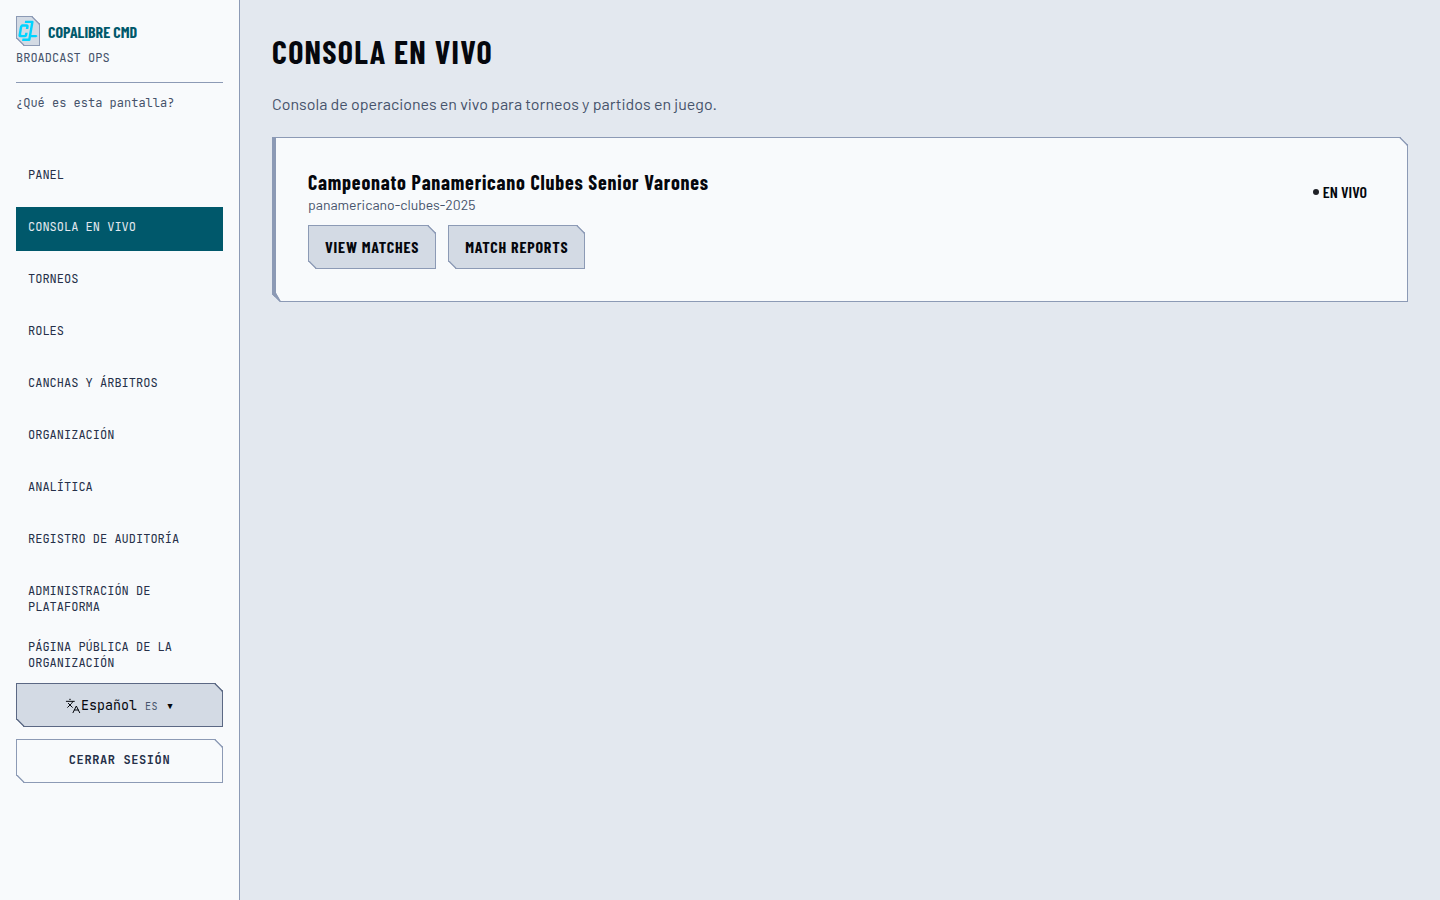
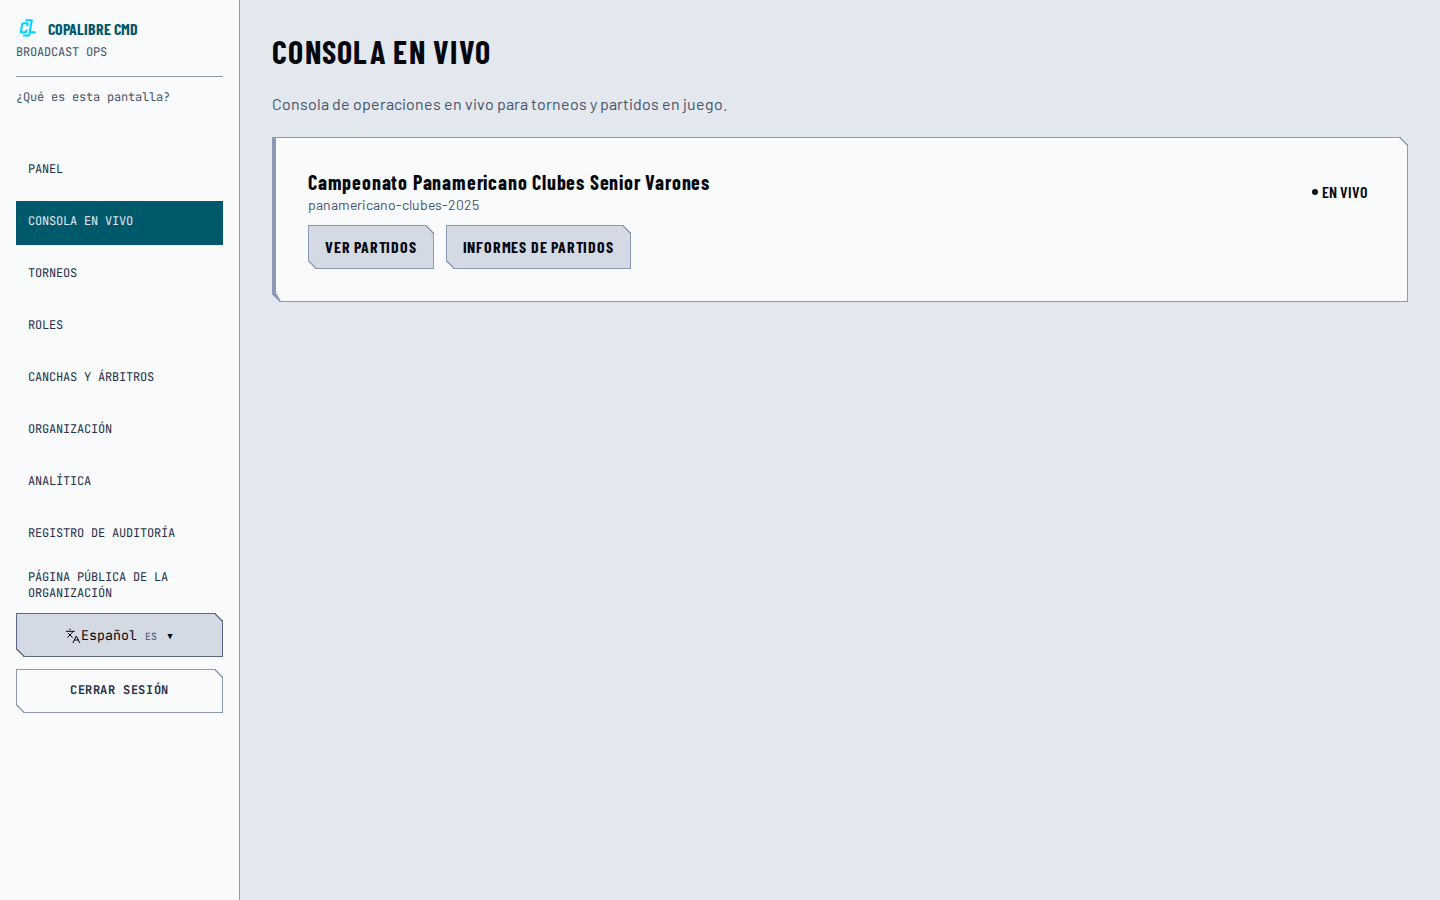
fix(web): localize live-console links

diff --git a/apps/web/src/control/components/screens/LiveConsoleTemplate.tsx b/apps/web/src/control/components/screens/LiveConsoleTemplate.tsx
@@ -1,4 +1,4 @@
-import { defineMessages, useIntl } from 'react-intl';
+import { useIntl } from 'react-intl';
 import { messages } from '../../i18n/messages.en.js';
 import { type TournamentResponse } from '../../lib/api-client.js';
 import { controlLinkClick } from '../../lib/control-navigation.js';
@@ -10,19 +10,6 @@ import { Skeleton } from '../ui/atoms/skeleton.js';
 import { ListScreenLayout } from '../ui/layouts/list-screen-layout.js';
 import { ReadState } from '../ui/layouts/read-state.js';
 import { EmptyState } from '../ui/molecules/empty-state.js';
-
-// These two link
-// labels were hardcoded Spanish literals with no message id at all. Local
-// rather than in `messages.en.ts` — the same `auth.*`/`invitation.*`
-// namespace gap already restated in English
-// elsewhere (`AcceptInvitationForm` among them): no locale catalogue has these ids, so every
-// locale falls back to `defaultMessage`, and `check-atomic-composition.mjs`'s
-// catalogue-completeness rule only walks the shared `messages.en.ts` file,
-// not a component's own local descriptors.
-const localMessages = defineMessages({
-  viewMatches: { id: 'control.liveConsole.viewMatches', defaultMessage: 'View matches' },
-  matchReports: { id: 'control.liveConsole.matchReports', defaultMessage: 'Match reports' },
-});
 
 /**
  * Composes the screen from the data `LiveConsolePage` supplies: purely presentational, no API client reference and no
@@ -105,7 +92,7 @@ export function LiveConsoleTemplate({
                       `/control/${organizationAlias}/tournaments/${tournament.alias}/matches-view`,
                     )}
                   >
-                    {intl.formatMessage(localMessages.viewMatches)}
+                    {intl.formatMessage(messages.liveConsoleViewMatches)}
                   </a>
                   <a
                     className="cl-btn cl-btn--secondary cl-focusable"
@@ -114,7 +101,7 @@ export function LiveConsoleTemplate({
                       `/control/${organizationAlias}/tournaments/${tournament.alias}/reports`,
                     )}
                   >
-                    {intl.formatMessage(localMessages.matchReports)}
+                    {intl.formatMessage(messages.liveConsoleMatchReports)}
                   </a>
                 </Inline>
               </Stack>

diff --git a/apps/web/src/control/i18n/i18n.test.tsx b/apps/web/src/control/i18n/i18n.test.tsx
@@ -2,7 +2,9 @@ import { render, screen } from '@testing-library/react';
 import { IntlProvider } from 'react-intl';
 import { StandingsTemplate } from '../components/screens/StandingsTemplate.js';
 import { SeedingBuilderTemplate } from '../components/screens/SeedingBuilderTemplate.js';
+import { LiveConsoleTemplate } from '../components/screens/LiveConsoleTemplate.js';
 import { RolesPermissionsTemplate } from '../components/screens/RolesPermissionsTemplate.js';
+import { tournament } from '../components/screen-story-fixtures.js';
 import { ToastProvider } from '../components/ToastProvider.js';
 import { activeControlLanguage } from './ControlIntl.js';
 import { messages } from './messages.en.js';
@@ -184,6 +186,40 @@ describe('Non-English catalogs render real translated text, not an English fallb
       expect(screen.getByText(title)).toBeTruthy();
       expect(screen.getByText(emptyState)).toBeTruthy();
       expect(screen.queryByText('Standings')).toBeNull();
+    },
+  );
+});
+
+describe('LiveConsoleTemplate renders localized tournament links', () => {
+  const expectedLinks: Record<string, readonly [string, string]> = {
+    es: ['Ver partidos', 'Informes de partidos'],
+    fr: ['Voir les matchs', 'Rapports de match'],
+    pt: ['Ver partidas', 'Relatórios de partidas'],
+    it: ['Vedi le partite', 'Report delle partite'],
+    de: ['Spiele ansehen', 'Spielberichte'],
+    ru: ['Посмотреть матчи', 'Отчёты о матчах'],
+    zh: ['查看比赛', '比赛报告'],
+  };
+
+  it.each(Object.entries(expectedLinks))(
+    '%s renders both links from its locale catalogue',
+    (lang, [viewMatches, matchReports]) => {
+      render(
+        withLanguage(
+          lang,
+          <LiveConsoleTemplate
+            failed={false}
+            loading={false}
+            onRetry={() => undefined}
+            organizationAlias="liga-mendocina"
+            staleSince={undefined}
+            tournaments={[tournament]}
+          />,
+        ),
+      );
+
+      expect(screen.getByRole('link', { name: viewMatches })).toBeTruthy();
+      expect(screen.getByRole('link', { name: matchReports })).toBeTruthy();
     },
   );
 });

diff --git a/apps/web/src/control/i18n/messages.ru.ts b/apps/web/src/control/i18n/messages.ru.ts
@@ -1334,6 +1334,8 @@ export const messages: Record<string, string> = {
   'control.liveConsole.loading': 'Загрузка текущих операций…',
   'control.liveConsole.noActiveTournaments': 'В этой организации нет активных турниров.',
   'control.liveConsole.createTournament': 'Создать турнир',
+  'control.liveConsole.viewMatches': 'Посмотреть матчи',
+  'control.liveConsole.matchReports': 'Отчёты о матчах',
   'control.preferences.tokensLoading': 'Загрузка…',
   'preferences.title': 'Личные настройки',
   'control.preferences.theme': 'Тема',

diff --git a/apps/web/src/control/i18n/messages.fr.ts b/apps/web/src/control/i18n/messages.fr.ts
@@ -1344,6 +1344,8 @@ export const messages: Record<string, string> = {
   'control.liveConsole.loading': 'Chargement des opérations en direct…',
   'control.liveConsole.noActiveTournaments': 'Aucun tournoi actif dans cette organisation.',
   'control.liveConsole.createTournament': 'Créer un tournoi',
+  'control.liveConsole.viewMatches': 'Voir les matchs',
+  'control.liveConsole.matchReports': 'Rapports de match',
   'control.preferences.tokensLoading': 'Chargement…',
   'preferences.title': 'Préférences personnelles',
   'control.preferences.theme': 'Thème',

diff --git a/apps/web/src/control/i18n/messages.de.ts b/apps/web/src/control/i18n/messages.de.ts
@@ -1353,6 +1353,8 @@ export const messages: Record<string, string> = {
   'control.liveConsole.loading': 'Live-Betrieb wird geladen…',
   'control.liveConsole.noActiveTournaments': 'Keine aktiven Turniere in dieser Organisation.',
   'control.liveConsole.createTournament': 'Turnier erstellen',
+  'control.liveConsole.viewMatches': 'Spiele ansehen',
+  'control.liveConsole.matchReports': 'Spielberichte',
   'control.preferences.tokensLoading': 'Wird geladen…',
   'preferences.title': 'Persönliche Einstellungen',
   'control.preferences.theme': 'Darstellung',

diff --git a/apps/web/src/control/i18n/messages.it.ts b/apps/web/src/control/i18n/messages.it.ts
@@ -1340,6 +1340,8 @@ export const messages: Record<string, string> = {
   'control.liveConsole.loading': 'Caricamento delle operazioni live…',
   'control.liveConsole.noActiveTournaments': 'Nessun torneo attivo in questa organizzazione.',
   'control.liveConsole.createTournament': 'Crea torneo',
+  'control.liveConsole.viewMatches': 'Vedi le partite',
+  'control.liveConsole.matchReports': 'Report delle partite',
   'control.preferences.tokensLoading': 'Caricamento…',
   'preferences.title': 'Preferenze personali',
   'control.preferences.theme': 'Tema',

diff --git a/apps/web/src/control/i18n/messages.pt.ts b/apps/web/src/control/i18n/messages.pt.ts
@@ -1331,6 +1331,8 @@ export const messages: Record<string, string> = {
   'control.liveConsole.loading': 'Carregando operações ao vivo…',
   'control.liveConsole.noActiveTournaments': 'Nenhum torneio ativo nesta organização.',
   'control.liveConsole.createTournament': 'Criar torneio',
+  'control.liveConsole.viewMatches': 'Ver partidas',
+  'control.liveConsole.matchReports': 'Relatórios de partidas',
   'control.preferences.tokensLoading': 'Carregando…',
   'preferences.title': 'Preferências pessoais',
   'control.preferences.theme': 'Tema',

diff --git a/apps/web/src/control/i18n/messages.es.ts b/apps/web/src/control/i18n/messages.es.ts
@@ -1337,6 +1337,8 @@ export const messages: Record<string, string> = {
   'control.liveConsole.loading': 'Cargando operaciones en vivo…',
   'control.liveConsole.noActiveTournaments': 'No hay torneos activos en esta organización.',
   'control.liveConsole.createTournament': 'Crear torneo',
+  'control.liveConsole.viewMatches': 'Ver partidos',
+  'control.liveConsole.matchReports': 'Informes de partidos',
   'control.preferences.tokensLoading': 'Cargando…',
   'preferences.title': 'Preferencias personales',
   'control.preferences.theme': 'Tema',

diff --git a/apps/web/src/control/i18n/messages.zh.ts b/apps/web/src/control/i18n/messages.zh.ts
@@ -1270,6 +1270,8 @@ export const messages: Record<string, string> = {
   'control.liveConsole.loading': '正在加载实时操作…',
   'control.liveConsole.noActiveTournaments': '该组织没有活跃的锦标赛。',
   'control.liveConsole.createTournament': '创建锦标赛',
+  'control.liveConsole.viewMatches': '查看比赛',
+  'control.liveConsole.matchReports': '比赛报告',
   'control.preferences.tokensLoading': '正在加载…',
   'preferences.title': '个人偏好设置',
   'control.preferences.theme': '主题',

diff --git a/apps/web/src/control/i18n/messages.en.ts b/apps/web/src/control/i18n/messages.en.ts
@@ -3936,6 +3936,14 @@ export const messages = defineMessages({
     id: 'control.liveConsole.createTournament',
     defaultMessage: 'Create tournament',
   },
+  liveConsoleViewMatches: {
+    id: 'control.liveConsole.viewMatches',
+    defaultMessage: 'View matches',
+  },
+  liveConsoleMatchReports: {
+    id: 'control.liveConsole.matchReports',
+    defaultMessage: 'Match reports',
+  },
 
   // Preferences route — the personal-access-token
   // list's own loading state. Uses the shared catalogue rather than this
